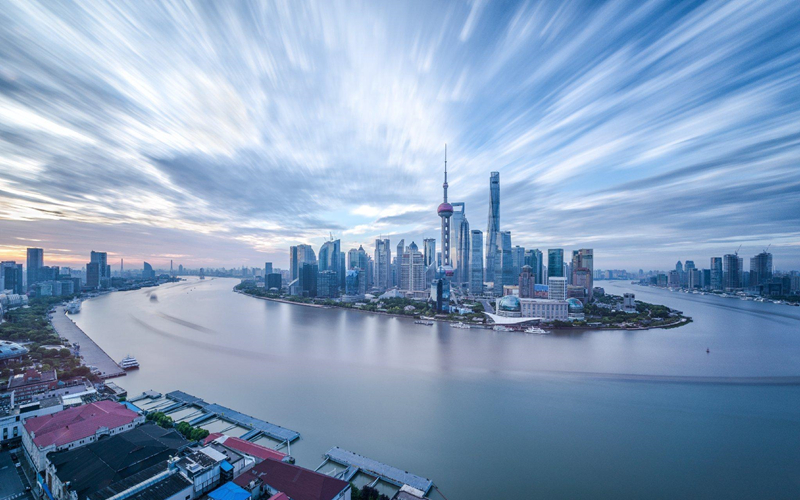
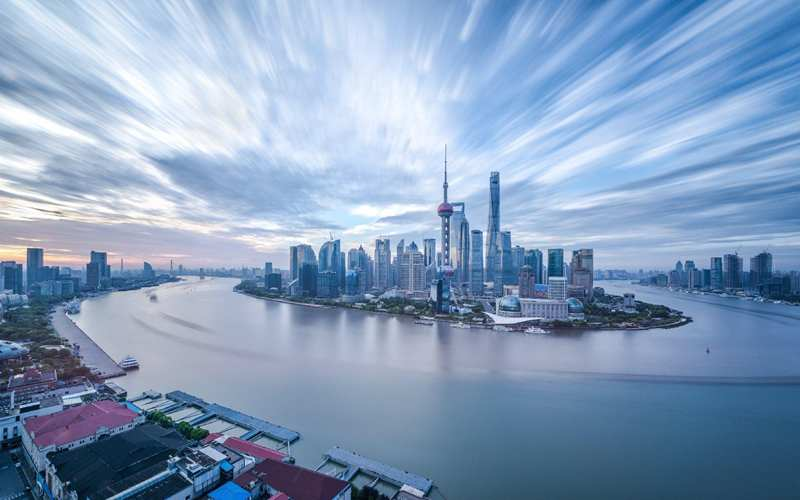
1，修复合同状态显示错误；2，压缩首页图片。

diff --git a/frontend/controllers/SiteController.php b/frontend/controllers/SiteController.php
@@ -10,10 +10,10 @@ use yii\filters\AccessControl;
 use frontend\models\LoginForm;
 use frontend\models\PasswordResetRequestForm;
 use frontend\models\ResetPasswordForm;
-use frontend\models\SignupForm;
+// use frontend\models\SignupForm;
 use frontend\models\ContactForm;
 //数据提供器
-use yii\data\ActiveDataProvider;
+// use yii\data\ActiveDataProvider;
 use common\models\News;
 //分页
 use yii\data\Pagination;
@@ -21,8 +21,11 @@ use yii\data\Pagination;
 use common\models\NewsColumn;
 //提示信息
 use yii\bootstrap\Alert;
-use common\models\ChangeUserPasswd;
+// use common\models\ChangeUserPasswd;
 use yii\web\NotFoundHttpException;
+use yii\filters\HttpCache;
+use yii\filters\PageCache;
+use yii\caching\DbDependency;
 /**
  * Site controller
  */
@@ -54,6 +57,35 @@ class SiteController extends Controller
                     'logout' => ['post', 'get'],
                 ],
             ],
+//             'newsHttpCache' => [
+//                 'class' => HttpCache::className(),
+//                 'only' => ['news'],
+//                 'cacheControlHeader' => 'no-cache',
+//                 'lastModified' => function($action, $params){
+//                     $time = strtotime(News::find()->max('created_at'));
+//                     return $time;    
+//                 },
+//             ],
+//             'staticHttpCache' => [
+//                 'class' => HttpCache::className(),
+//                 'only' => ['about', 'business', 'join'],
+//                 'cacheControlHeader' => 'no-cache',
+//                 'lastModified' => function($action, $params){
+//                     if(!Yii::$app->user->isGuest)
+//                     {
+//                         return time() - 10;
+//                     }else{
+//                         return 0;
+//                     }   
+//                 },
+//             ],
+//             'pageCache' => [
+//                 'class' => PageCache::className(),
+//                 'dependency' => [
+//                     'class' => DbDependency::className(),
+//                     'sql' => 'SELECT COUNT(*) FROM news',
+//                 ],            
+//             ],
         ];
     }
 
@@ -337,18 +369,18 @@ class SiteController extends Controller
     }
 
     //修改客户的密码
-    public function actionResetPasswd()
-    {
-        $id = Yii::$app->user->identity->id;
-        $model = new ChangeUserPasswd();
-        if($model->load(Yii::$app->request->post()) && $model->resetPasswdLogout($id))
-        {   
-            return $this->redirect(['site/login']);            
-        }
-        return $this->render('resetPasswd', [
-            'model' => $model,
-        ]);
-    }
+//     public function actionResetPasswd()
+//     {
+//         $id = Yii::$app->user->identity->id;
+//         $model = new ChangeUserPasswd();
+//         if($model->load(Yii::$app->request->post()) && $model->resetPasswdLogout($id))
+//         {   
+//             return $this->redirect(['site/login']);            
+//         }
+//         return $this->render('resetPasswd', [
+//             'model' => $model,
+//         ]);
+//     }
     
     //获取新闻模型
     private function findNews($id)

diff --git a/common/models/Contract.php b/common/models/Contract.php
@@ -124,8 +124,8 @@ class Contract extends ActiveRecord
     {
         switch ($status)
         {
-            case 1: return '生效中';                break;
-            case 0: return '已过期';                break;
+            case 1: return '运行中';                break;
+            case 0: return '已兑付';                break;
             default : return '不存在的';
         }
     }
@@ -143,6 +143,7 @@ class Contract extends ActiveRecord
         {
             case 1: return '运行中';                break;
             case 0: return '已兑付';                break;
+            default : return '不存在的';
         }
     }
     

diff --git a/backend/views/contract/view.php b/backend/views/contract/view.php
@@ -179,10 +179,7 @@ $this->title = '合同详情：'.$model->contract_number;
                     <td class="info">合同状态</td>
                     <td colspan="5">
                         <?php 
-                            if($model->status)
-                            {
-                                echo Contract::contractValidation($model->status);
-                            }
+                            echo Contract::contractValidation($model->status);
                         ?>
                     </td>
                 </tr>

diff --git a/frontend/views/member/index.php b/frontend/views/member/index.php
@@ -26,7 +26,7 @@ $id = Yii::$app->user->id;
 			<menu>
 				<ul>
 					<li><a href="/member" class="arrow">我的合同</a></li>
-                                        <li><a href="/site/reset-passwd" class="arrow">修改密码</a></li>
+                    <li><a href="/site/request-password-reset" class="arrow">修改密码</a></li>
 					<!--<li><a href="/member/personal" class="arrow">个人信息</a></li>-->
 <!--					<li><a href="#navplace" class="arrow">Our place</a></li>
 					<li><a href="#navother" class="arrow">Our lorem</a></li>-->

diff --git a/frontend/models/LoginForm.php b/frontend/models/LoginForm.php
@@ -12,7 +12,7 @@ class LoginForm extends Model
 {
     public $username;
     public $password;
-    public $rememberMe = true;
+    public $rememberMe = false;
 
     private $_user;
 
